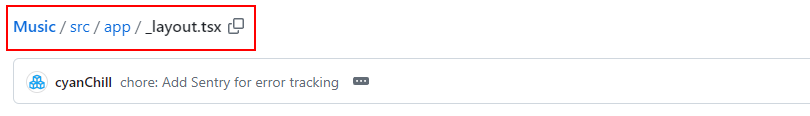
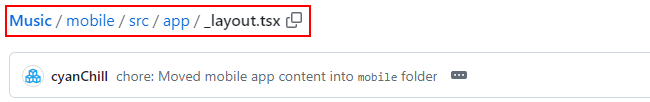
docs: Updated path references
- Removed `CHANGELOG.md` as we usually not them down in a release note draft

diff --git a/docs/personal-privacy-build.md b/docs/personal-privacy-build.md
@@ -56,9 +56,14 @@ In the newly created forked repository, click the `Actions` tab and then the `I 
 
 ## Step 4: Create branch for latest version of the app (includes pre-release)
 
-Now, click ``Create `latest-stable` Branch`` in the sidebar while in the `Actions` tab. Next click on the `Run workflow` dropdown on the right and click `Run workflow`. Make sure that under `Use workflow from`, `Branch: main` is selected. This will create a new `latest-stable` branch.
+Now, click `` Create `latest-stable` Branch `` in the sidebar while in the `Actions` tab. Next click on the `Run workflow` dropdown on the right and click `Run workflow`. Make sure that under `Use workflow from`, `Branch: main` is selected. This will create a new `latest-stable` branch.
 
 <img src="./assets/personal-privacy-build/create_latest_stable_branch.png" alt="Visual steps on creating the `latest-stable` branch." />
+
+> [!IMPORTANT]  
+> You should use the `latest-stable` branch instead of the `main` branch as the `main` branch will contain unrelease features that may be unstable or may be structured differently.
+>
+> In addition, this will also allow you to update the `main` branch of the repository seamlessly for whenever we create a new stable release.
 
 ## Step 5: Removing Sentry code
 
@@ -66,7 +71,7 @@ Go back to the `Code` tab and click the dropdown menu which has `main`. From the
 
 <img src="./assets/personal-privacy-build/remove_sentry_1.png" alt="Visual steps on switching to the `latest-stable` branch." />
 
-Then click on the `src` folder, followed by the `app` folder, and then `_layout.tsx`. You should see something similar to the following (pay attention to the "breadcrumbs" at the top to make sure you're in the right file):
+Then click on the `mobile` folder, followed by the `src` folder, followed by the `app` folder, and then `_layout.tsx`. You should see something similar to the following (pay attention to the "breadcrumbs" at the top to make sure you're in the right file):
 
 <img src="./assets/personal-privacy-build/remove_sentry_2.png" alt="Screen that you should see if you followed the steps correctly." />
 
@@ -74,7 +79,7 @@ Click the edit button.
 
 <img src="./assets/personal-privacy-build/remove_sentry_3.png" alt="Location of the file edit button." />
 
-Delete the code highlighted below.
+Delete the code highlighted below. This may change throughout versions, but in general, it'll start with `Sentry.init({` and end with `});`.
 
 <img src="./assets/personal-privacy-build/remove_sentry_4.png" alt="Sentry code segment that should be removed." />
 

diff --git a/docs/building-this-app.md b/docs/building-this-app.md
@@ -19,7 +19,7 @@ Except for the "Build the unsigned app via GitHub Actions" option, there are som
 
 ## (Unsigned) Local Build
 
-This will build the app directly onto your connected device. In addition, you can find the "release" variants of the unsigned APKs generated in the `android/app/build/outputs/apk/release` directory. There will be [different APK files](https://developer.android.com/ndk/guides/abis.html#sa), for modern Android devices, the `app-arm64-v8a-release.apk` is used.
+This will build the app directly onto your connected device. In addition, you can find the "release" variants of the unsigned APKs generated in the `mobile/android/app/build/outputs/apk/release` directory. There will be [different APK files](https://developer.android.com/ndk/guides/abis.html#sa), for modern Android devices, the `app-arm64-v8a-release.apk` is used.
 
 1. Clone the repository.
 
@@ -30,7 +30,7 @@ This will build the app directly onto your connected device. In addition, you ca
 2. Navigate to the project directory.
 
    ```sh
-   cd Music
+   cd Music/mobile
    ```
 
 3. Install dependencies (we use `pnpm`, but you can use `npm`).

diff --git a/README.md b/README.md
@@ -35,7 +35,7 @@ A Nothing inspired music player (based on design by [Alkid Shuli (alKid)](https:
 - Favoriting Albums, Playlists, and Tracks
 - Background Playback w/ Media Control Notification
 - Queues
-- Automatically extraction of metadata w/ [@missingcore/react-native-metadata-retriever](https://github.com/MissingCore/react-native-metadata-retriever)
+- Automatic extraction of metadata w/ [@missingcore/react-native-metadata-retriever](https://github.com/MissingCore/react-native-metadata-retriever)
   - List of [supported media formats](https://developer.android.com/media/platform/supported-formats#audio-formats) according to Android docs.
 - Data Backup
 
